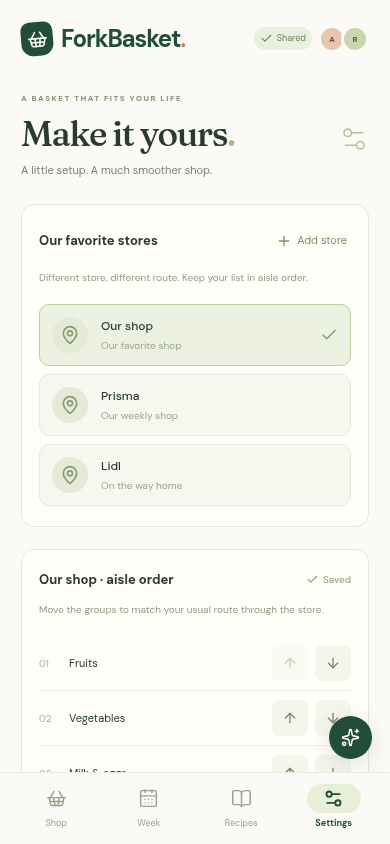
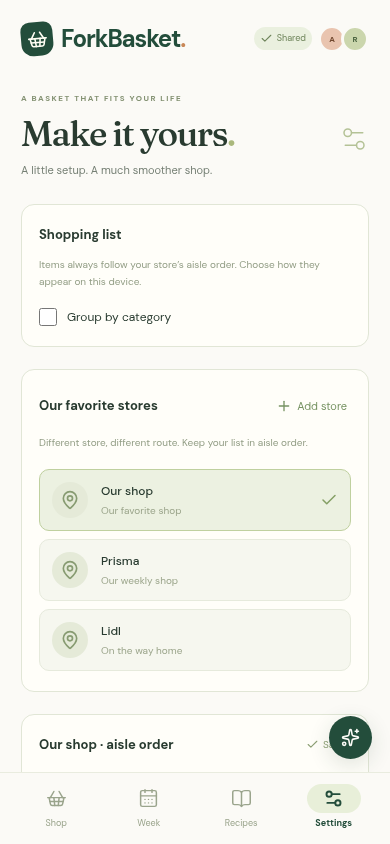
feat: support NFS storage and optional shopping categories

diff --git a/src/components/Shopping.tsx b/src/components/Shopping.tsx
@@ -13,6 +13,7 @@ import { HoldButton } from './HoldButton'
 import { StoreCombobox } from './StoreCombobox'
 import { shoppingQuantity } from '../lib/meal-shopping'
 import { cleanItem } from '../lib/sync'
+import { useShoppingLayout } from '../lib/shopping-layout'
 
 const categoryColors: Partial<Record<Category, string>> = {
   'Fruit & vegetables': 'produce',
@@ -31,7 +32,8 @@ const categoryColors: Partial<Record<Category, string>> = {
   'Meat & fish': 'fish',
 }
 export function Shopping() {
-  const { state, update, action, shoppingItems } = useApp()
+  const { state, update, action, shoppingItems, session } = useApp()
+  const { groupByCategory } = useShoppingLayout(session.user.id)
   const { insights } = useLearning()
   const [query, setQuery] = useState('')
   const [isFocused, setFocused] = useState(false)
@@ -45,6 +47,18 @@ export function Shopping() {
   const store =
     state.stores.find((s) => s.id === state.storeId) ?? state.stores[0]
   const active = shoppingItems.filter((i) => !i.checked)
+  const categoryOrder = [
+    ...new Set([...store.order, ...active.map((item) => item.category)]),
+  ]
+  const sorted = categoryOrder.flatMap((category) =>
+    active.filter((item) => item.category === category),
+  )
+  const sections = groupByCategory
+    ? categoryOrder.map((category) => ({
+        category,
+        items: sorted.filter((item) => item.category === category),
+      }))
+    : [{ category: null, items: sorted }]
   const checked = shoppingItems.filter((i) => i.checked)
   const products = [...catalog, ...state.customProducts].map((p) => ({
     ...p,
@@ -248,12 +262,17 @@ export function Shopping() {
             />
           )}
           <div className="shopping-groups">
-            {store.order.map((category) => {
-              const items = active.filter((i) => i.category === category)
+            {sections.map(({ category, items }) => {
               return (
                 items.length > 0 && (
-                  <section className="shopping-group" key={category}>
-                    <SectionTitle title={category} count={items.length} />
+                  <section
+                    className="shopping-group"
+                    key={category ?? 'all'}
+                    aria-label={category ?? 'Shopping items'}
+                  >
+                    {category && (
+                      <SectionTitle title={category} count={items.length} />
+                    )}
                     <motion.div layout className="item-grid">
                       <AnimatePresence mode="popLayout" initial={false}>
                         {items.map((item) => (
@@ -268,7 +287,7 @@ export function Shopping() {
                               stiffness: 400,
                               damping: 30,
                             }}
-                            className={`item-tile ${categoryColors[category] ?? 'other'} ${item.autoAdded ? 'auto-added' : ''}`}
+                            className={`item-tile ${categoryColors[item.category] ?? 'other'} ${item.autoAdded ? 'auto-added' : ''}`}
                           >
                             <HoldButton
                               className="tile-check"

diff --git a/src/components/Settings.tsx b/src/components/Settings.tsx
@@ -18,9 +18,13 @@ import { FoodIcon } from './FoodIcon'
 import { AccountSettings } from './AccountSettings'
 import { AISettings } from './AISettings'
 import { HouseholdSettings } from './HouseholdSettings'
+import { useShoppingLayout } from '../lib/shopping-layout'
 
 export function Settings() {
-  const { state, update } = useApp()
+  const { state, update, session } = useApp()
+  const { groupByCategory, setGroupByCategory } = useShoppingLayout(
+    session.user.id,
+  )
   const [storeId, setStoreId] = useState<string | null>(null)
   const [addOpen, setAddOpen] = useState(false)
   const [newName, setNewName] = useState('')
@@ -60,6 +64,21 @@ export function Settings() {
       </div>
       <div className="settings-layout">
         <div>
+          <section className="settings-card">
+            <SectionTitle title="Shopping list" />
+            <p className="settings-description">
+              Items always follow your store’s aisle order. Choose how they
+              appear on this device.
+            </p>
+            <label className="checkbox-label">
+              <input
+                type="checkbox"
+                checked={groupByCategory}
+                onChange={(event) => setGroupByCategory(event.target.checked)}
+              />
+              Group by category
+            </label>
+          </section>
           <section className="settings-card">
             <SectionTitle title="Our favorite stores">
               <button className="text-button" onClick={() => setAddOpen(true)}>

diff --git a/src/lib/shopping-layout.ts b/src/lib/shopping-layout.ts
@@ -1,0 +1,33 @@
+import { useEffect, useState } from 'react'
+
+// Like the current store, list presentation belongs to this account/device.
+export function useShoppingLayout(userId: string) {
+  const key = `forkbasket:group-shopping:${userId}`
+  const [groupByCategory, setGroupByCategory] = useState(false)
+  useEffect(() => {
+    const load = () => {
+      try {
+        setGroupByCategory(localStorage.getItem(key) === 'true')
+      } catch {
+        setGroupByCategory(false)
+      }
+    }
+    load()
+    const changed = (event: StorageEvent) => {
+      if (event.key === key || event.key === null) load()
+    }
+    window.addEventListener('storage', changed)
+    return () => window.removeEventListener('storage', changed)
+  }, [key])
+  return {
+    groupByCategory,
+    setGroupByCategory: (enabled: boolean) => {
+      setGroupByCategory(enabled)
+      try {
+        localStorage.setItem(key, String(enabled))
+      } catch {
+        // The preference still works for this visit if storage is unavailable.
+      }
+    },
+  }
+}

diff --git a/backend/src/db.rs b/backend/src/db.rs
@@ -10,16 +10,104 @@ use std::{
 
 #[derive(Clone)]
 pub struct Database(pub Arc<Mutex<Connection>>);
+
+#[derive(Clone, Copy)]
+pub enum JournalMode {
+    Wal,
+    Delete,
+}
+
+#[cfg(test)]
+mod tests {
+    use super::*;
+
+    #[test]
+    fn rollback_journal_preserves_wal_data_transactions_backups_and_restart() {
+        let directory = tempfile::tempdir().unwrap();
+        let path = directory.path().join("database.sqlite3");
+        let database = Database::open(&path).unwrap();
+        database.lock().unwrap().execute_batch("CREATE TABLE storage_probe(value BLOB); INSERT INTO storage_probe VALUES (X'001122FF');").unwrap();
+        drop(database);
+
+        let database = Database::open_with_journal(&path, JournalMode::Delete).unwrap();
+        {
+            let mut conn = database.lock().unwrap();
+            let mode: String = conn
+                .query_row("PRAGMA journal_mode", [], |row| row.get(0))
+                .unwrap();
+            assert_eq!(mode, "delete");
+            let sync: u32 = conn
+                .query_row("PRAGMA synchronous", [], |row| row.get(0))
+                .unwrap();
+            assert_eq!(sync, 3);
+            let transaction = conn.transaction().unwrap();
+            transaction
+                .execute("DELETE FROM storage_probe", [])
+                .unwrap();
+            drop(transaction);
+        }
+        // The separate connection used by --backup can read a running DELETE database.
+        let backup = directory.path().join("backup.sqlite3");
+        Connection::open(&path)
+            .unwrap()
+            .backup("main", &backup, None)
+            .unwrap();
+        drop(database);
+        for file in [&path, &backup] {
+            let reopened = Database::open_with_journal(file, JournalMode::Delete).unwrap();
+            let value: Vec<u8> = reopened
+                .lock()
+                .unwrap()
+                .query_row("SELECT value FROM storage_probe", [], |row| row.get(0))
+                .unwrap();
+            assert_eq!(value, [0, 17, 34, 255]);
+            let integrity: String = reopened
+                .lock()
+                .unwrap()
+                .query_row("PRAGMA integrity_check", [], |row| row.get(0))
+                .unwrap();
+            assert_eq!(integrity, "ok");
+        }
+        assert!(!path.with_file_name("database.sqlite3-wal").exists());
+        assert!(!path.with_file_name("database.sqlite3-shm").exists());
+    }
+}
+impl JournalMode {
+    pub fn parse(value: &str) -> std::result::Result<Self, &'static str> {
+        match value {
+            "WAL" | "wal" => Ok(Self::Wal),
+            "DELETE" | "delete" => Ok(Self::Delete),
+            _ => Err("FORKBASKET_SQLITE_JOURNAL_MODE must be WAL or DELETE"),
+        }
+    }
+}
 impl Database {
+    #[cfg(test)]
     pub fn open(path: &Path) -> Result<Self> {
+        Self::open_with_journal(path, JournalMode::Wal)
+    }
+    pub fn open_with_journal(path: &Path, journal: JournalMode) -> Result<Self> {
         if let Some(parent) = path.parent() {
             std::fs::create_dir_all(parent)?;
         }
         let conn = Connection::open(path)?;
         conn.busy_timeout(std::time::Duration::from_secs(5))?;
-        conn.execute_batch(
-            "PRAGMA journal_mode=WAL; PRAGMA foreign_keys=ON; PRAGMA synchronous=FULL;",
-        )?;
+        let (mode, synchronous) = match journal {
+            JournalMode::Wal => ("WAL", "FULL"),
+            // NFS cannot share a WAL index. EXTRA also syncs the directory after
+            // deleting a rollback journal, making a completed commit durable.
+            JournalMode::Delete => ("DELETE", "EXTRA"),
+        };
+        let actual: String =
+            conn.query_row(&format!("PRAGMA journal_mode={mode}"), [], |row| row.get(0))?;
+        if !actual.eq_ignore_ascii_case(mode) {
+            return Err(ApiError::internal(
+                "SQLite could not activate the configured journal mode",
+            ));
+        }
+        conn.execute_batch(&format!(
+            "PRAGMA foreign_keys=ON; PRAGMA synchronous={synchronous};"
+        ))?;
         conn.execute_batch("CREATE TABLE IF NOT EXISTS schema_migrations(version INTEGER PRIMARY KEY, applied_at TEXT NOT NULL)")?;
         let version: i64 = conn.query_row(
             "SELECT COALESCE(MAX(version),0) FROM schema_migrations",

diff --git a/backend/src/main.rs b/backend/src/main.rs
@@ -288,7 +288,11 @@ async fn main() -> std::result::Result<(), Box<dyn std::error::Error>> {
         data_dir: data_dir.clone(),
         encryption_key,
     });
-    let db = db::Database::open(&data_dir.join("forkbasket.sqlite3")).map_err(|error| error.1)?;
+    let journal = db::JournalMode::parse(
+        &std::env::var("FORKBASKET_SQLITE_JOURNAL_MODE").unwrap_or_else(|_| "WAL".into()),
+    )?;
+    let db = db::Database::open_with_journal(&data_dir.join("forkbasket.sqlite3"), journal)
+        .map_err(|error| error.1)?;
     let (notices, _) = broadcast::channel(128);
     let client = reqwest::Client::builder()
         .timeout(std::time::Duration::from_secs(120))

diff --git a/docs/DEPLOYMENT.md b/docs/DEPLOYMENT.md
@@ -23,7 +23,9 @@ The GitHub workflow checks the app and publishes `ghcr.io/fruitiex/forkbasket:ma
 3. Copy `secret.sops.yaml.example` to `secret.sops.yaml`. Generate a random setup token and a **64-character hexadecimal** encryption key. For example, `openssl rand -hex 32` produces either value. Insert them locally; never commit the plaintext file. Encrypt with your homelab’s SOPS configuration/recipients before adding it to Git. The supplied file is a template, not a real secret.
 4. Pin the image digest and set image pull credentials if needed. Run `kustomize build apps/forkbasket` after materializing the encrypted secret, review the result locally without publishing decrypted output, then commit/push in your homelab repository when ready to deploy.
 
-Keep one replica with Recreate. SQLite WAL needs local or block storage with reliable POSIX locking; use your `syno-storage` iSCSI/ext4 class. The supplied PVC requests 5 GiB. Do not substitute an NFS volume for SQLite. `fsGroup` makes the volume writable for the non-root process. The Deployment supplies startup, readiness and liveness probes, a read-only root filesystem and a writable temporary volume.
+Keep one replica with Recreate. SQLite defaults to WAL for local or block storage; the reusable PVC example requests 5 GiB of `syno-storage` iSCSI/ext4. For NFS, explicitly set `FORKBASKET_SQLITE_JOURNAL_MODE=DELETE`: [WAL cannot operate over a network filesystem](https://sqlite.org/wal.html). DELETE uses rollback journaling with `synchronous=EXTRA`, including a directory sync after a commit. Use NFSv4 with working POSIX locks and durable server writes; never mount with `nolock` or run multiple app replicas against the database. This depends on the NAS correctly implementing locking and sync operations. `fsGroup` makes the volume writable for the non-root process. The Deployment supplies startup, readiness and liveness probes, a read-only root filesystem and a writable temporary volume.
+
+The live homelab uses `forkbasket-data-nfs` on the existing `nfs-csi` storage class, mounted at `/data`. Its NAS directory is `/volume3/homelab/forkbasket-data-nfs` on `nectarine.internal.fruitiex.org`. The previous `forkbasket-data` iSCSI claim is retained as a pre-migration recovery copy; it no longer receives writes. Full migration instructions and verification are recorded alongside the live manifests.
 
 The app supports one initial owner household per installation. The API scopes every account, image, event and AI request to its household. The owner invites other family accounts in Settings; invitations are email-specific, single-use, and expire after seven days. They are links to share yourself; the app does not require SMTP.
 
@@ -57,6 +59,8 @@ Access the generated setup token using a private terminal (`docker exec forkbask
 ## Mobile and offline use
 
 Visit once online, then install from your browser’s app menu or Add to Home Screen. The service worker keeps a versioned app shell and bundled assets; API responses and private photos are not cached by it. Household state and pending shopping operations are persisted on that signed-in device. Checking, restoring, adding and editing can be queued offline; reloading offline works after the shell finishes installing. A browser that supports Web Locks also recovers unsynced work from closed tabs.
+
+Shopping defaults to a continuous tile grid sorted by the selected store’s aisle order. Settings → Shopping list → Group by category restores category headings and separate grids. This is an account-specific preference on that device, like the current store selection.
 
 The connection indicator shows offline/pending changes. Reconnect to sync. Concurrent quantity or description edits may need review; the app keeps the operation and shows the server’s latest state. Discard the stale operation and reapply the intended edit. A check cannot silently credit extra ingredients that another device added while you were offline. Keep the device’s site data until outstanding work has synced. Signing out requires syncing or discarding pending operations and clears that account’s local state. Photos and provider requests need connectivity.
 

diff --git a/docs/PLAN.md b/docs/PLAN.md
@@ -19,7 +19,7 @@ This document records the user’s requirements, the chosen direction, and imple
 
 The main screen uses large, easy-to-press tiles inspired by Bring. Pressing an item checks it and moves it to a recently checked section below the active list. Pressing a recently checked item brings it back. Holding an active or checked entry opens its edit dialog. Right-click and Shift+F10 provide desktop and keyboard equivalents. Cancel a pending hold when the user scrolls or moves away. Keep ordinary shopping one tap and remove separate pencil buttons from tiles.
 
-The user accepted the initial visual direction but requested less clutter, especially on the shopping page. Prioritize the shop picker, item addition, grouped tiles, and recently checked entries. Hide secondary restock suggestions in an expandable section. Avoid promotional copy, sidebar cards, and repeated visual confirmations during ordinary checking.
+The user accepted the initial visual direction but requested less clutter, especially on the shopping page. Prioritize the shop picker, item addition, and recently checked entries. Shopping now defaults to a continuous tile grid, sorted by store category/aisle order. Category headings and separate grids are optional through Settings → Shopping list → Group by category, with an account-specific device preference. Hide secondary restock suggestions in an expandable section. Avoid promotional copy, sidebar cards, and repeated visual confirmations during ordinary checking.
 
 Adding an item should provide autocomplete from a substantial built-in catalog. Support creating custom items and assigning them to groups. Each item may have a photo or illustration, a quantity, and additional free text for an exact brand, color, size, variant, or instruction.
 
@@ -161,3 +161,7 @@ The Nix container builds successfully. Runtime checks verify non-root/read-only 
 User authorization: deploy into `~/homelab` using private ingress. The homelab changes were validated, committed and pushed as `dd3f091`. Flux reconciled the app successfully. The tested image is pinned to `sha256:673c7c6897e1bb268938497f3b46f637d017d010660df295579c9e4759b4023b`; the deployment uses existing GHCR credentials and freshly SOPS-encrypted setup/encryption secrets. SQLite resides on a bound 5 GiB `syno-storage` PVC; PVC pruning is disabled, and the storage class retains its PV.
 
 The app is healthy at `https://forkbasket.fruitiex.org`. DNS resolves to the private Envoy gateway at `192.168.11.99`; its route is Accepted/ResolvedRefs and the public gateway returns 404. A real mobile browser verified trusted HTTPS, the first-owner form and absence of runtime errors. Owner/wife accounts and live AI configuration remain owner setup steps; no accounts or provider credentials were invented. First-login and operations instructions are saved in `~/homelab/apps/forkbasket/README.md`.
+
+### NFS and shopping presentation update — 2026-10-01
+
+The user requested migrating existing data to NFS and defaulting to aisle-sorted tiles without category grouping. The app supports `FORKBASKET_SQLITE_JOURNAL_MODE=DELETE` with synchronous EXTRA for NFS, while preserving WAL as the default for local/block storage. One replica with Recreate remains required. Shopping has a continuous sorted grid by default and an account/device-specific Group by category preference in Settings. Both layouts preserve store ordering, item colors, automatic ingredient markers, check/restore and editing gestures. The migration uses the existing `nfs-csi` class and a new `forkbasket-data-nfs` claim; the old iSCSI claim is retained. The stopped-data migration checks full SQLite integrity and hashes every table's schema/content, including image blobs and credentials, before switching the Deployment. Live results are documented in the homelab README after cutover.
